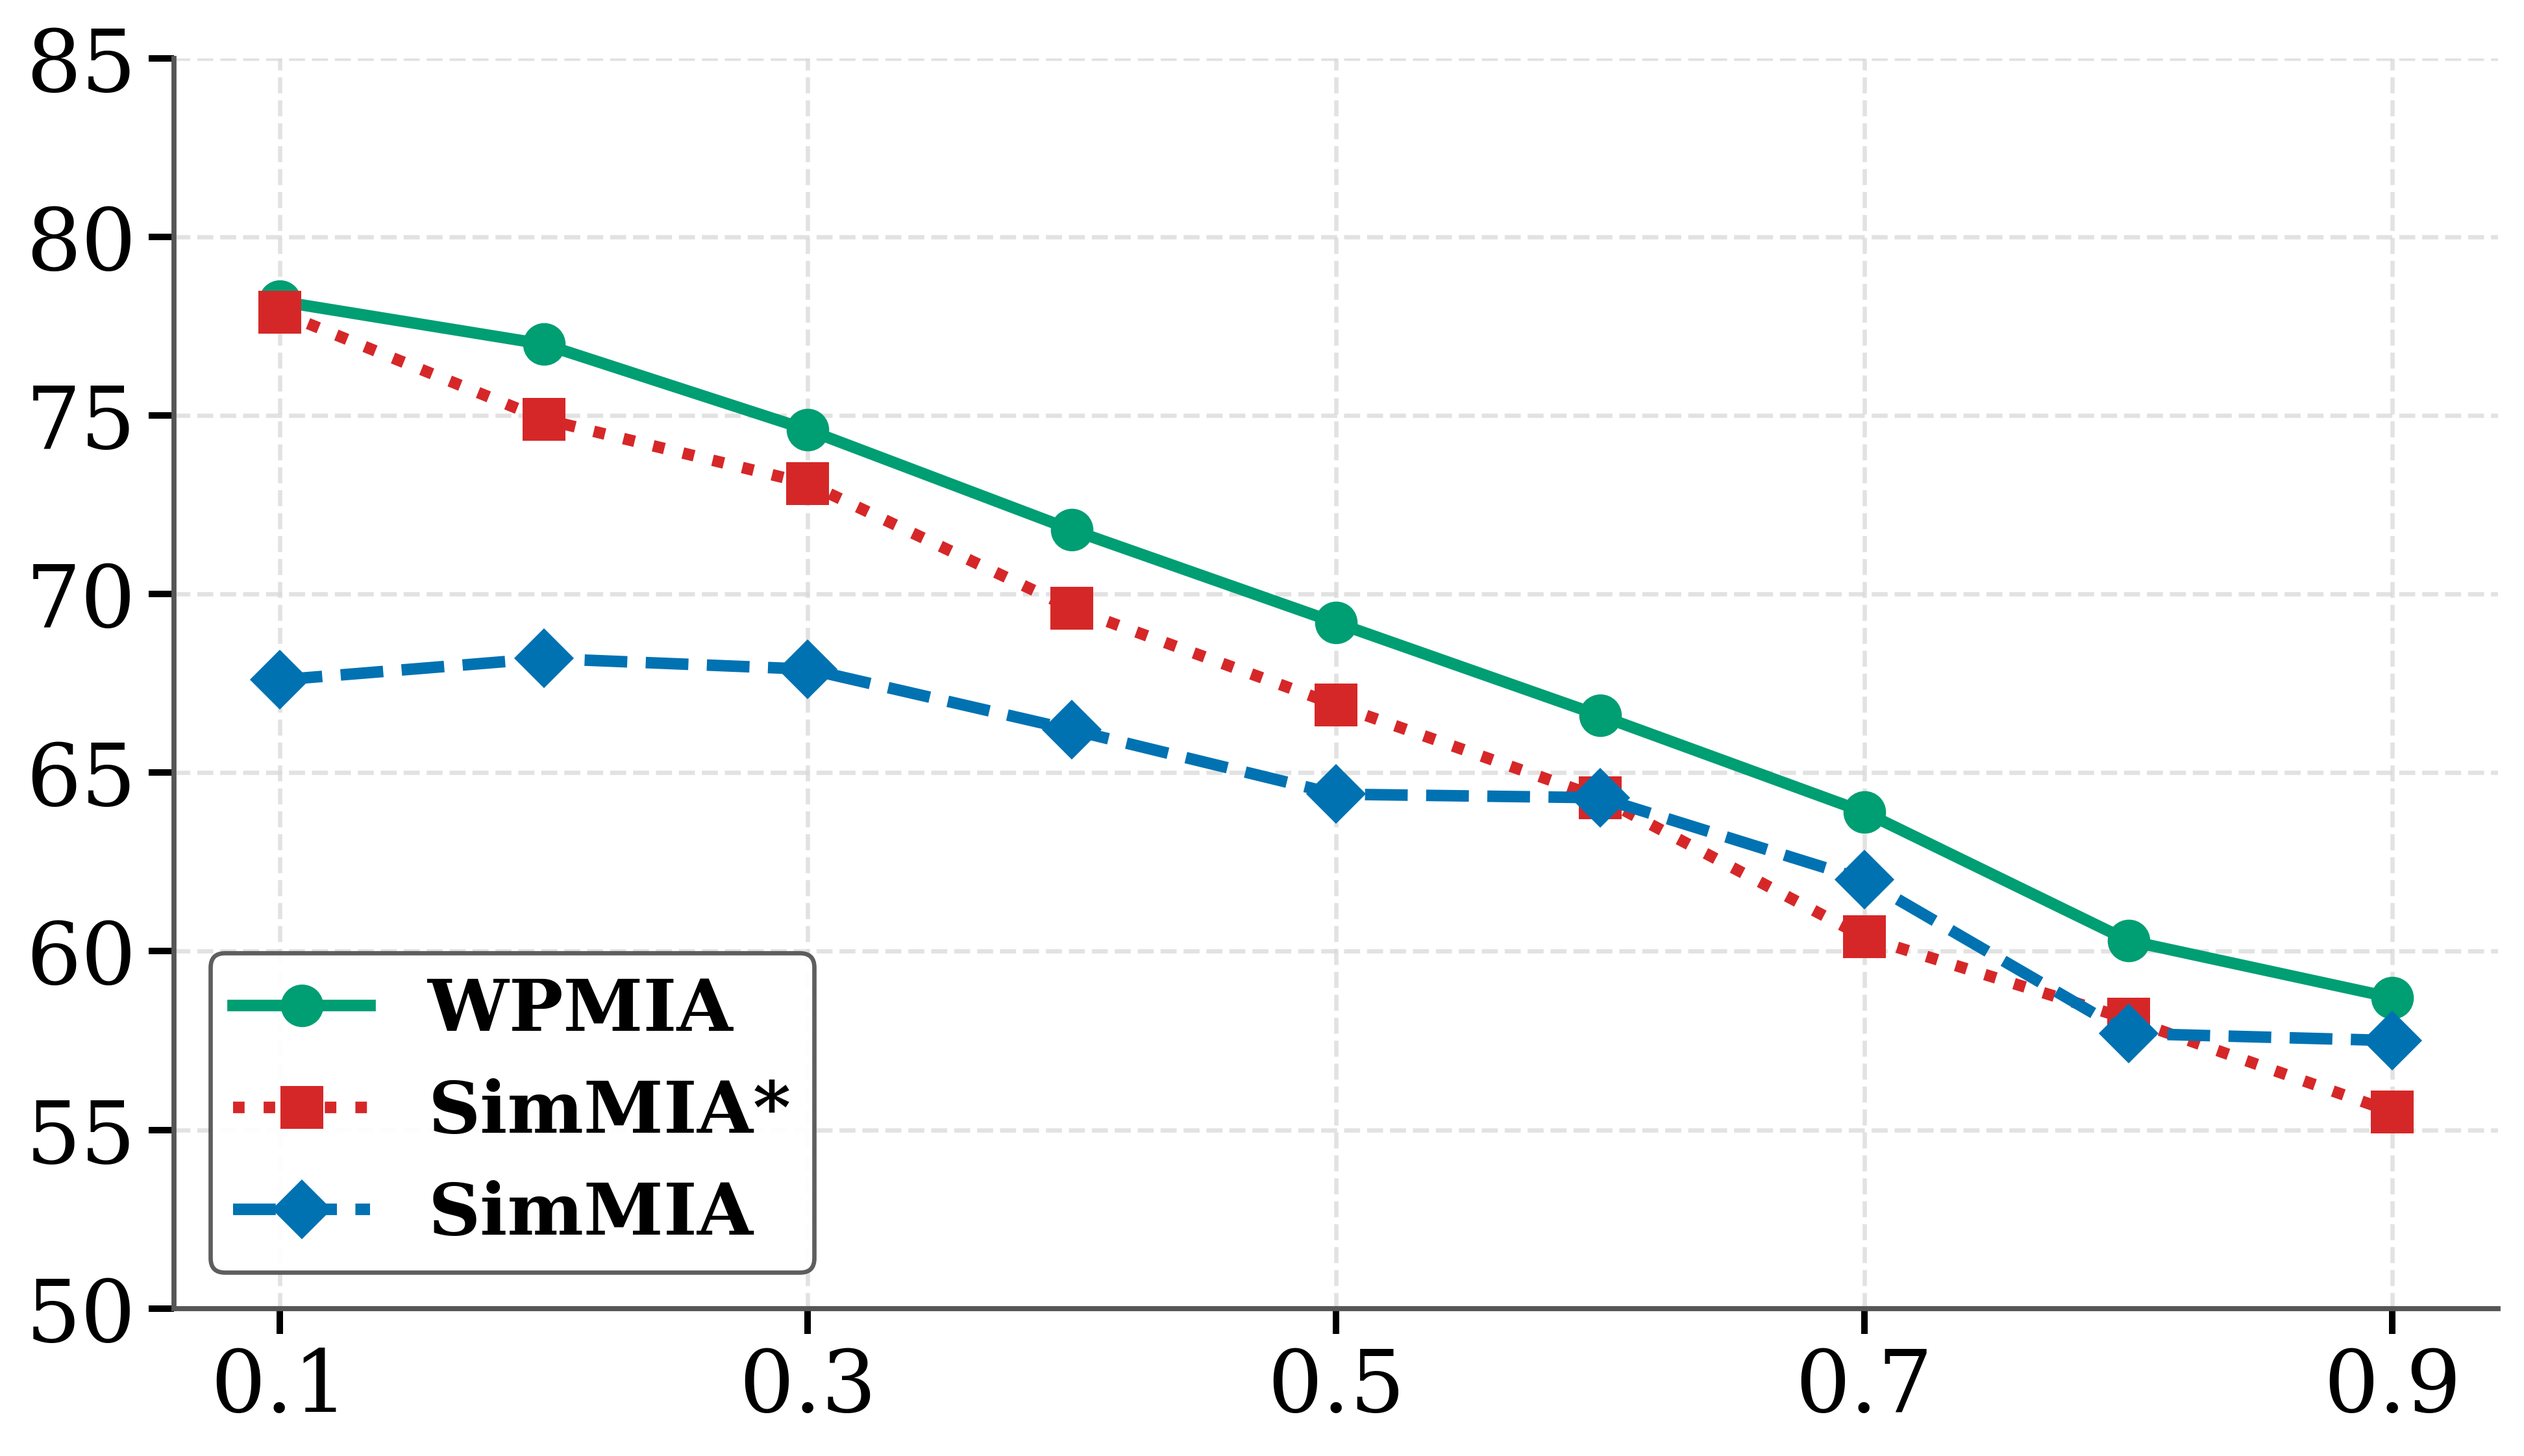
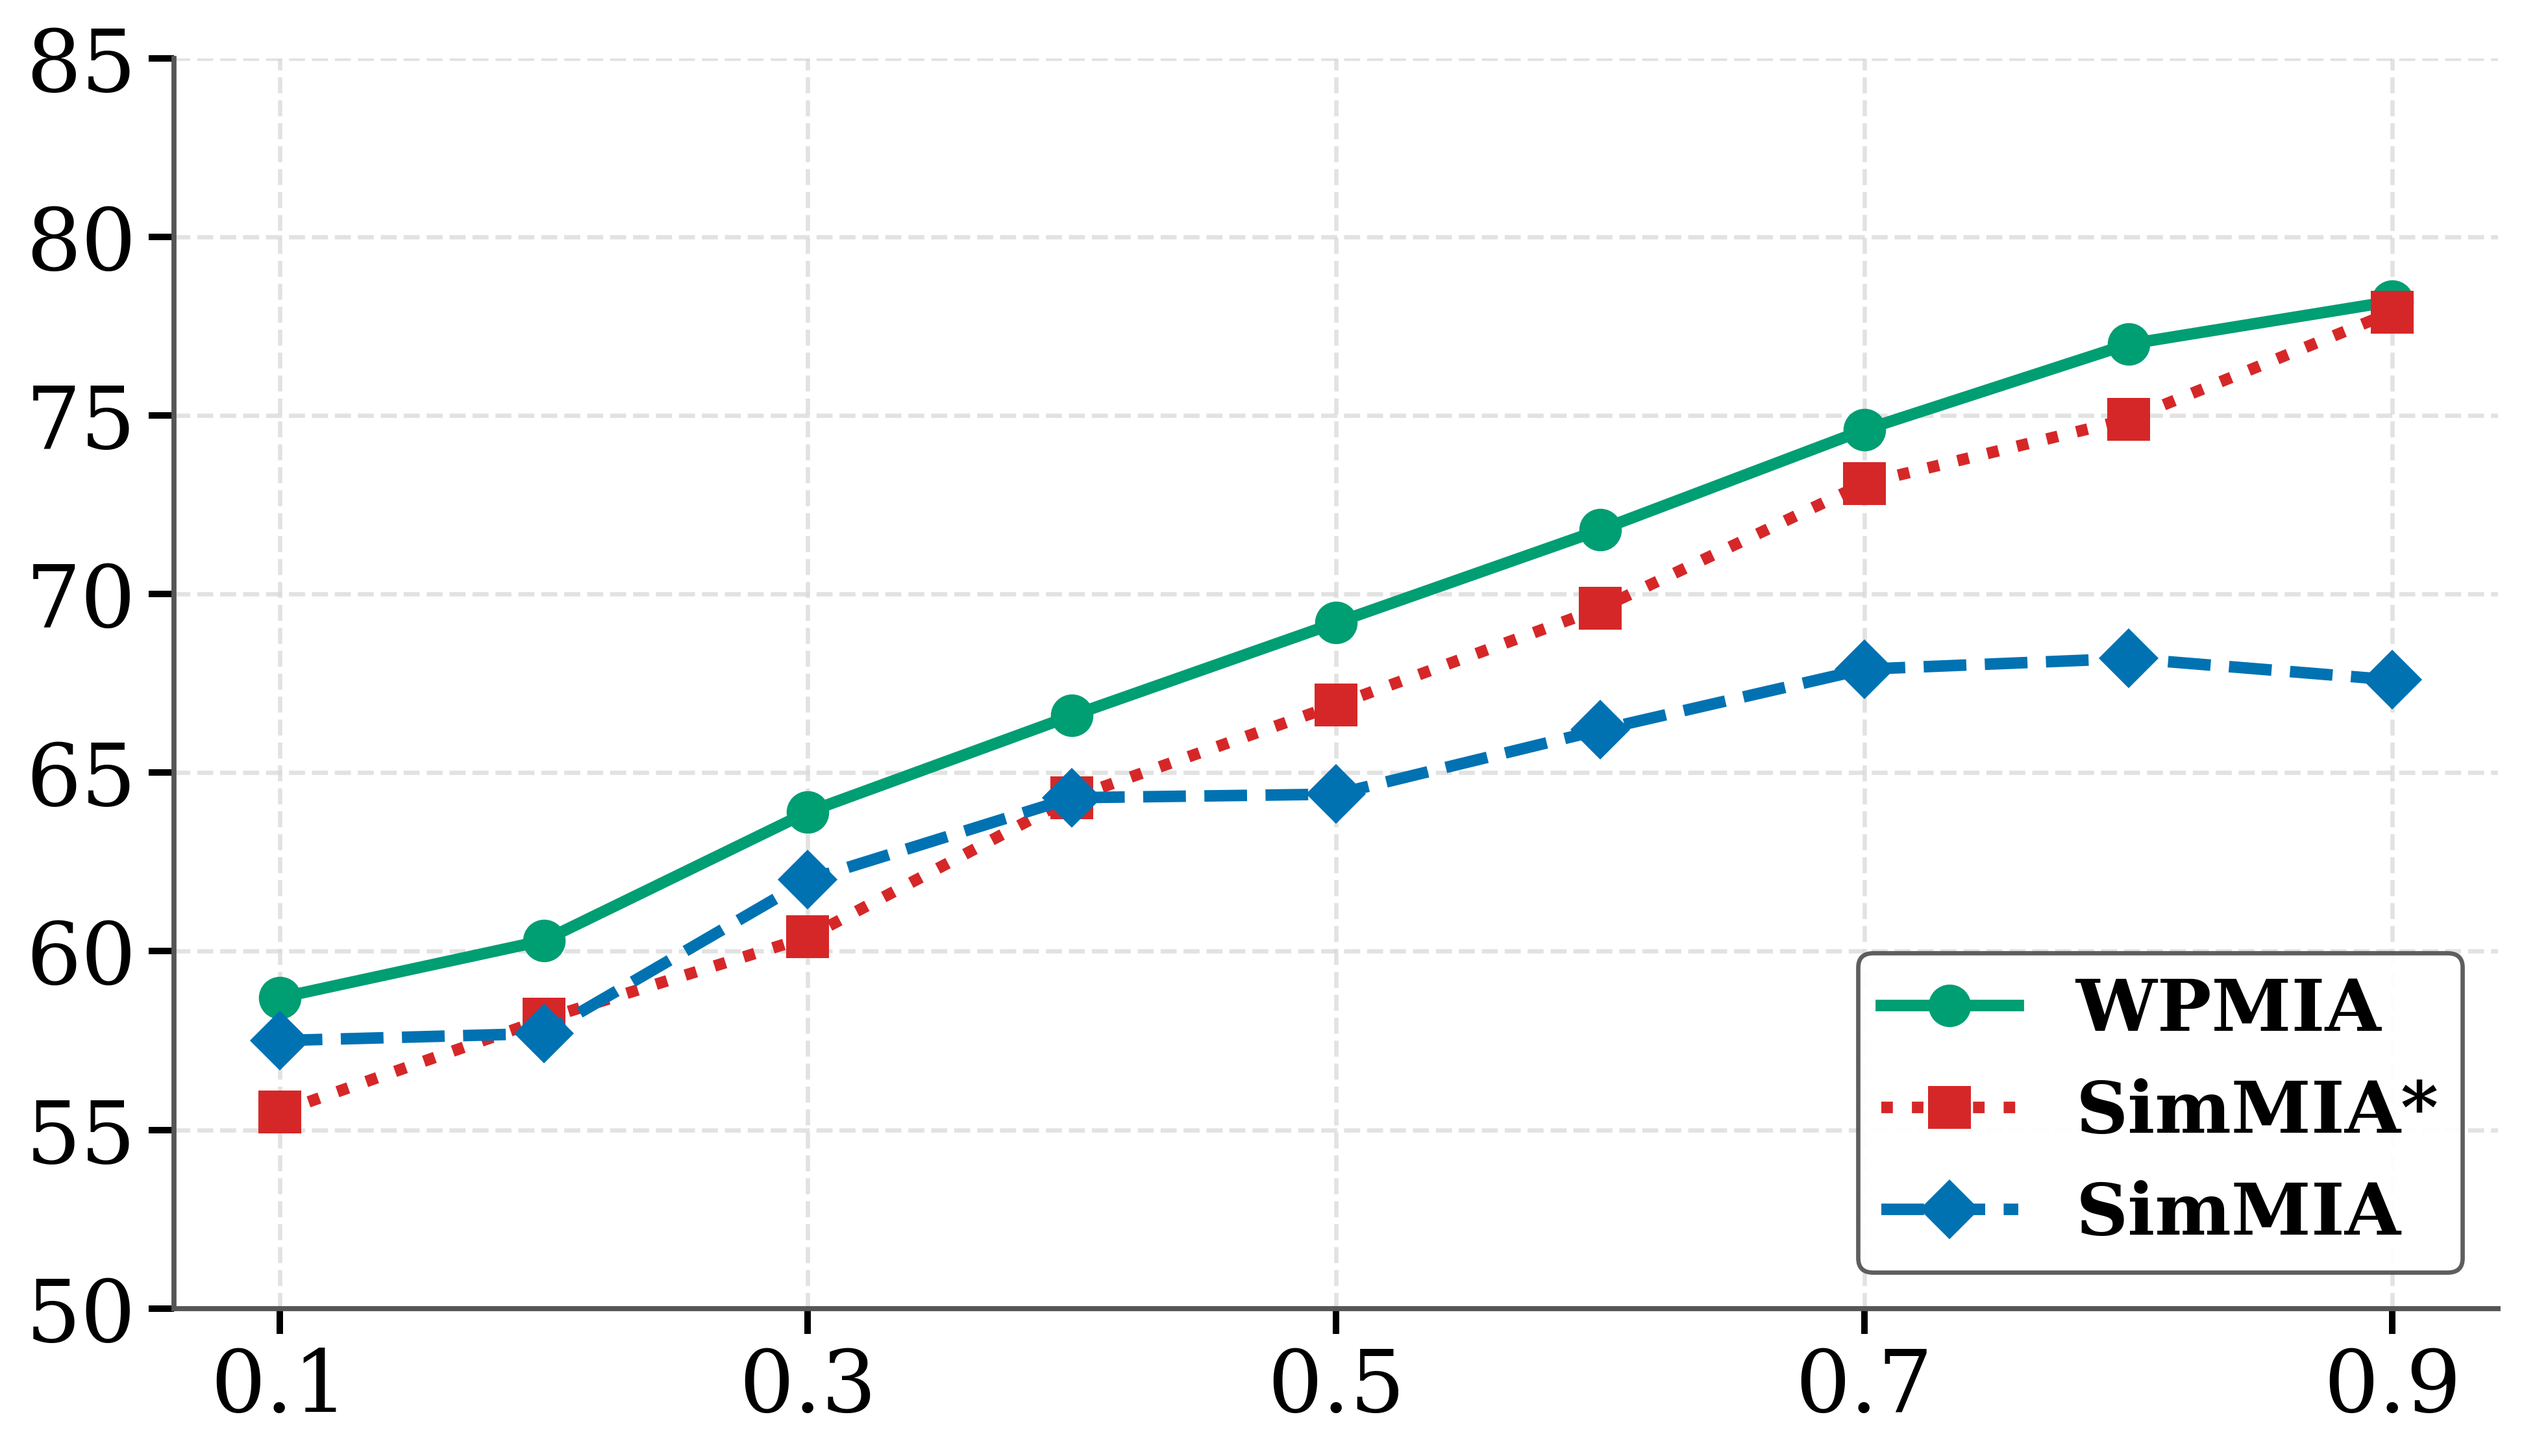
Update Figure Draw files with drawed png(s)

diff --git a/drawfig/plot_wikimia_pythia_component_score_hist.py b/drawfig/plot_wikimia_pythia_component_score_hist.py
@@ -1,0 +1,274 @@
+#!/usr/bin/env python3
+import argparse
+import csv
+import math
+import os
+from pathlib import Path
+
+os.environ.setdefault(
+    "MPLCONFIGDIR", f"/tmp/matplotlib-{os.environ.get('USER', 'simmia')}"
+)
+Path(os.environ["MPLCONFIGDIR"]).mkdir(parents=True, exist_ok=True)
+
+import matplotlib.pyplot as plt
+import numpy as np
+
+
+PLOTS = [
+    {"method": "ll"},
+    {"method": "seq_nm_ratio"},
+    {"method": "seq_contrast"},
+]
+
+MEMBER_COLOR = "#4169E1"
+NONMEMBER_COLOR = "#FF9900"
+
+
+def load_scores(path: Path) -> tuple[np.ndarray, np.ndarray]:
+    if not path.exists():
+        raise FileNotFoundError(f"Missing score CSV: {path}")
+
+    labels = []
+    scores = []
+    with path.open("r", encoding="utf-8", newline="") as fin:
+        reader = csv.DictReader(fin)
+        for row in reader:
+            labels.append(int(row["label"]))
+            scores.append(float(row["score"]))
+
+    if not scores:
+        raise ValueError(f"No scores found in {path}")
+    return np.asarray(labels, dtype=int), np.asarray(scores, dtype=float)
+
+
+def minmax_normalize(scores: np.ndarray) -> np.ndarray:
+    min_score = float(np.min(scores))
+    max_score = float(np.max(scores))
+    if math.isclose(min_score, max_score):
+        return np.zeros_like(scores, dtype=float)
+    return (scores - min_score) / (max_score - min_score)
+
+
+def gaussian_kde(values: np.ndarray, grid: np.ndarray) -> np.ndarray:
+    values = np.asarray(values, dtype=float)
+    if len(values) < 2:
+        return np.zeros_like(grid)
+
+    std = float(np.std(values, ddof=1))
+    bandwidth = 1.06 * std * (len(values) ** (-1 / 5))
+    if not math.isfinite(bandwidth) or bandwidth <= 1e-8:
+        bandwidth = 0.05
+
+    scaled = (grid[:, None] - values[None, :]) / bandwidth
+    density = np.exp(-0.5 * scaled * scaled).mean(axis=1)
+    return density / (bandwidth * math.sqrt(2 * math.pi))
+
+
+def apply_plot_style() -> None:
+    plt.rcParams.update(
+        {
+            "font.family": "DejaVu Serif",
+            "font.size": 18,
+            "axes.labelsize": 18,
+            "axes.titlesize": 20,
+            "xtick.labelsize": 22,
+            "ytick.labelsize": 22,
+            "legend.fontsize": 18,
+            "pdf.fonttype": 42,
+            "ps.fonttype": 42,
+        }
+    )
+
+
+def plot_panel(
+    ax,
+    labels: np.ndarray,
+    scores: np.ndarray,
+    config: dict,
+) -> None:
+    normalized = minmax_normalize(scores)
+    member = normalized[labels == 1]
+    nonmember = normalized[labels == 0]
+    if len(member) == 0 or len(nonmember) == 0:
+        raise ValueError(f"Need both member and non-member scores for {config['method']}")
+
+    bins = np.linspace(0.0, 1.0, 22)
+    grid = np.linspace(-0.08, 1.08, 400)
+
+    ax.hist(
+        member,
+        bins=bins,
+        density=True,
+        color=MEMBER_COLOR,
+        alpha=0.45,
+        label="Member",
+        edgecolor="white",
+        linewidth=0.45,
+    )
+    ax.hist(
+        nonmember,
+        bins=bins,
+        density=True,
+        color=NONMEMBER_COLOR,
+        alpha=0.45,
+        label="Non-member",
+        edgecolor="white",
+        linewidth=0.45,
+    )
+
+    ax.plot(grid, gaussian_kde(member, grid), color=MEMBER_COLOR, linewidth=2.4)
+    ax.plot(grid, gaussian_kde(nonmember, grid), color=NONMEMBER_COLOR, linewidth=2.4)
+
+    member_mean = float(np.mean(member))
+    nonmember_mean = float(np.mean(nonmember))
+    ax.axvline(member_mean, color=MEMBER_COLOR, linestyle="--", linewidth=2.05)
+    ax.axvline(nonmember_mean, color=NONMEMBER_COLOR, linestyle="--", linewidth=2.05)
+
+    ax.set_xlim(-0.08, 1.08)
+    ax.grid(False)
+    ax.tick_params(axis="both", which="major", width=1.4, length=6, direction="out")
+    for side in ("top", "right", "left", "bottom"):
+        ax.spines[side].set_visible(True)
+        ax.spines[side].set_linewidth(1.35)
+    ax.spines[side].set_color("#333333")
+
+    y_top = ax.get_ylim()[1]
+    y_diff = y_top * 0.36
+    left = min(member_mean, nonmember_mean)
+    right = max(member_mean, nonmember_mean)
+    diff = abs(member_mean - nonmember_mean)
+
+    ax.annotate(
+        "",
+        xy=(left, y_diff),
+        xytext=(right, y_diff),
+        arrowprops={
+            "arrowstyle": "<->",
+            "color": "black",
+            "linewidth": 1.55,
+            "mutation_scale": 8,
+            "shrinkA": 0,
+            "shrinkB": 0,
+        },
+        zorder=5,
+    )
+    ax.annotate(
+        "",
+        xy=(0.77, 0.455),
+        xycoords="axes fraction",
+        xytext=(right + 0.012, y_diff),
+        textcoords="data",
+        arrowprops={
+            "arrowstyle": "simple,head_length=0.85,head_width=0.85,tail_width=0.16",
+            "connectionstyle": "arc3,rad=0.0",
+            "facecolor": "#D62728",
+            "edgecolor": "#D62728",
+            "linewidth": 0.0,
+            "mutation_scale": 20,
+            "shrinkA": 0,
+            "shrinkB": 0,
+        },
+        annotation_clip=False,
+    )
+    ax.text(
+        0.77,
+        0.50,
+        f"Difference: {diff:.2f}",
+        transform=ax.transAxes,
+        ha="center",
+        va="center",
+        fontsize=17,
+        fontweight="bold",
+        color="black",
+    )
+
+
+def plot_length(
+    score_root: Path,
+    output_dir: Path,
+    length: str,
+    formats: list[str],
+    output_suffix: str,
+) -> list[Path]:
+    fig, axes = plt.subplots(1, 3, figsize=(18.6, 5.2), sharey=True)
+
+    for ax, config in zip(axes, PLOTS):
+        score_path = score_root / f"wikimia_len{length}_{config['method']}.csv"
+        labels, scores = load_scores(score_path)
+        plot_panel(ax, labels, scores, config)
+
+    axes[0].set_ylabel("Density", fontweight="bold", fontsize=27)
+    handles, labels = axes[0].get_legend_handles_labels()
+    for ax in axes:
+        legend = ax.legend(
+            handles,
+            labels,
+            loc="upper right",
+            frameon=True,
+            edgecolor="#CCCCCC",
+            prop={"size": 18, "weight": "bold"},
+        )
+        legend.get_frame().set_linewidth(1.1)
+
+    fig.subplots_adjust(left=0.06, right=0.99, bottom=0.12, top=0.965, wspace=0.08)
+
+    saved_paths = []
+    for fmt in formats:
+        out_path = output_dir / (
+            f"wikimia_pythia_component_scores_len{length}{output_suffix}.{fmt}"
+        )
+        fig.savefig(out_path, dpi=400, bbox_inches="tight")
+        saved_paths.append(out_path)
+    plt.close(fig)
+    return saved_paths
+
+
+def parse_args() -> argparse.Namespace:
+    parser = argparse.ArgumentParser(
+        description="Plot min-max normalized component-wise WPMIA score distributions."
+    )
+    parser.add_argument(
+        "--score_root",
+        default="logs/ablation/wikimia_pythia69b_component_scores",
+    )
+    parser.add_argument("--output_dir", default="drawfig")
+    parser.add_argument("--lengths", nargs="+", default=["32", "64", "128"])
+    parser.add_argument(
+        "--output_suffix",
+        default="",
+        help="Optional suffix inserted before the image extension.",
+    )
+    parser.add_argument(
+        "--formats",
+        nargs="+",
+        default=["png"],
+        help="Output image formats, e.g. png pdf.",
+    )
+    return parser.parse_args()
+
+
+def main() -> None:
+    args = parse_args()
+    score_root = Path(args.score_root)
+    output_dir = Path(args.output_dir)
+    output_dir.mkdir(parents=True, exist_ok=True)
+
+    apply_plot_style()
+    saved = []
+    for length in args.lengths:
+        saved.extend(
+            plot_length(
+                score_root,
+                output_dir,
+                length,
+                args.formats,
+                args.output_suffix,
+            )
+        )
+
+    for path in saved:
+        print(f"saved {path}")
+
+
+if __name__ == "__main__":
+    main()

diff --git a/drawfig/plot_wikimia32_ablation_auc.py b/drawfig/plot_wikimia32_ablation_auc.py
@@ -44,7 +44,8 @@ ABLATIONS = {
         "output": "wikimia32_pythia69b_prefix_ratio_auc.png",
         "xticks": [0.1, 0.3, 0.5, 0.7, 0.9],
         "xformatter": lambda x, _pos: f"{x:.1f}",
-        "legend_loc": "lower left",
+        "legend_loc": "lower right",
+        "use_continuation_ratio": True,
     },
     "num_samples": {
         "output": "wikimia32_pythia69b_num_samples_auc.png",
@@ -118,6 +119,8 @@ def plot_ablation(
     for method in METHODS:
         csv_path = csv_root / f"{prefix}_{ablation}_{method['key']}.csv"
         points = load_points(csv_path)
+        if config.get("use_continuation_ratio"):
+            points = sorted((round(1.0 - x, 10), auc) for x, auc in points)
         xs = [x for x, _auc in points]
         aucs = [auc for _x, auc in points]
         all_auc.extend(aucs)
